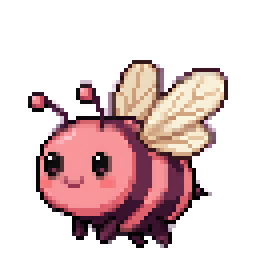
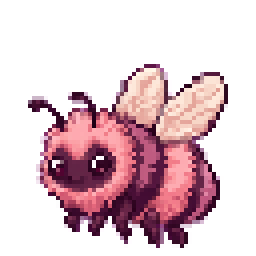
Replace hedgehog companions with pufferfish

diff --git a/src/petGame.ts b/src/petGame.ts
@@ -60,7 +60,7 @@ const KEPT_ACCESSORY_IDS = new Set([0, 1, 2, 3, 4, 5, 8, 9, 10, 11, 14, 15, 22, 
 // Dos imágenes de color independientes por animal, sin filtros CSS.
 const COMPANION_TYPES = [
   ['rabbit', 'Conejito', 'lila', 'lila'], ['fox', 'Zorrito', 'rojizo', 'rojizo'],
-  ['frog', 'Ranita', 'azul', 'azul'], ['hedgehog', 'Erizo', 'cobrizo', 'cobrizo'],
+  ['frog', 'Ranita', 'azul', 'azul'], ['puffer', 'Pez globo', 'azul', 'azul'],
   ['owl', 'Búho', 'caramelo', 'caramelo'], ['turtle', 'Tortuguita', 'turquesa', 'turquesa'],
   ['squirrel', 'Ardilla', 'blanca', 'blanca'], ['hamster', 'Hámster', 'rosado', 'rosado'],
   ['bat', 'Murciélago', 'azul', 'azul'], ['penguin', 'Pingüino', 'azul', 'azul'],
@@ -70,7 +70,7 @@ const COMPANION_TYPES = [
   ['bee', 'Abejita', 'rosada', 'rosada'],
 ] as const;
 const COMPANIONS = COMPANION_TYPES.flatMap(([image, label, alternate, alternateLabel]) => [
-  { image: `/pets/companions/${image}-clasico.webp`, label: image === 'butterfly' ? 'Mariposa monarca' : `${label} clásico` },
+  { image: `/pets/companions/${image}-clasico.webp`, label: image === 'butterfly' ? 'Mariposa monarca' : image === 'puffer' ? 'Pez globo amarillo' : `${label} clásico` },
   { image: `/pets/companions/${image}-${alternate}.webp`, label: `${label} ${alternateLabel}` },
 ]);
 let companionIndex = 0;
